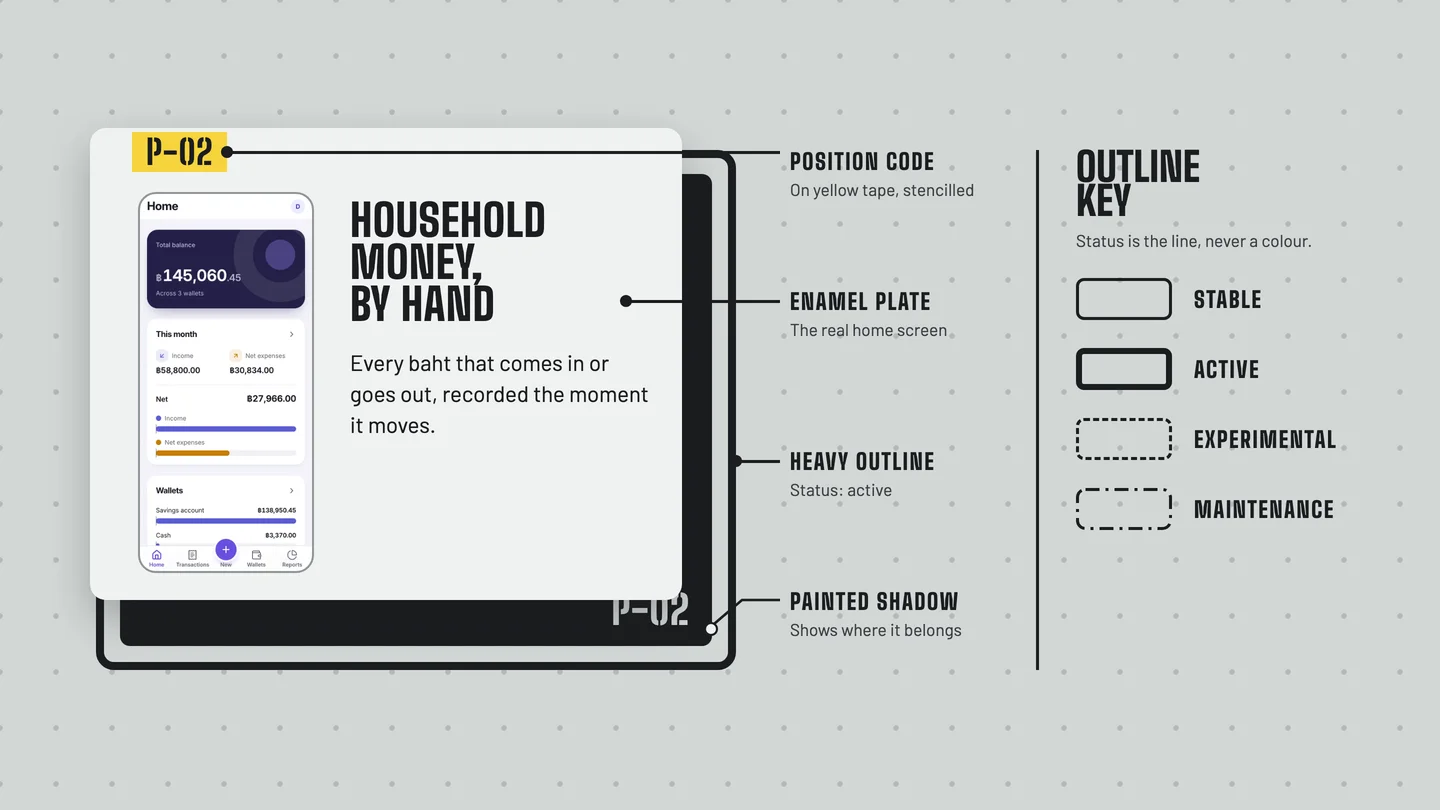
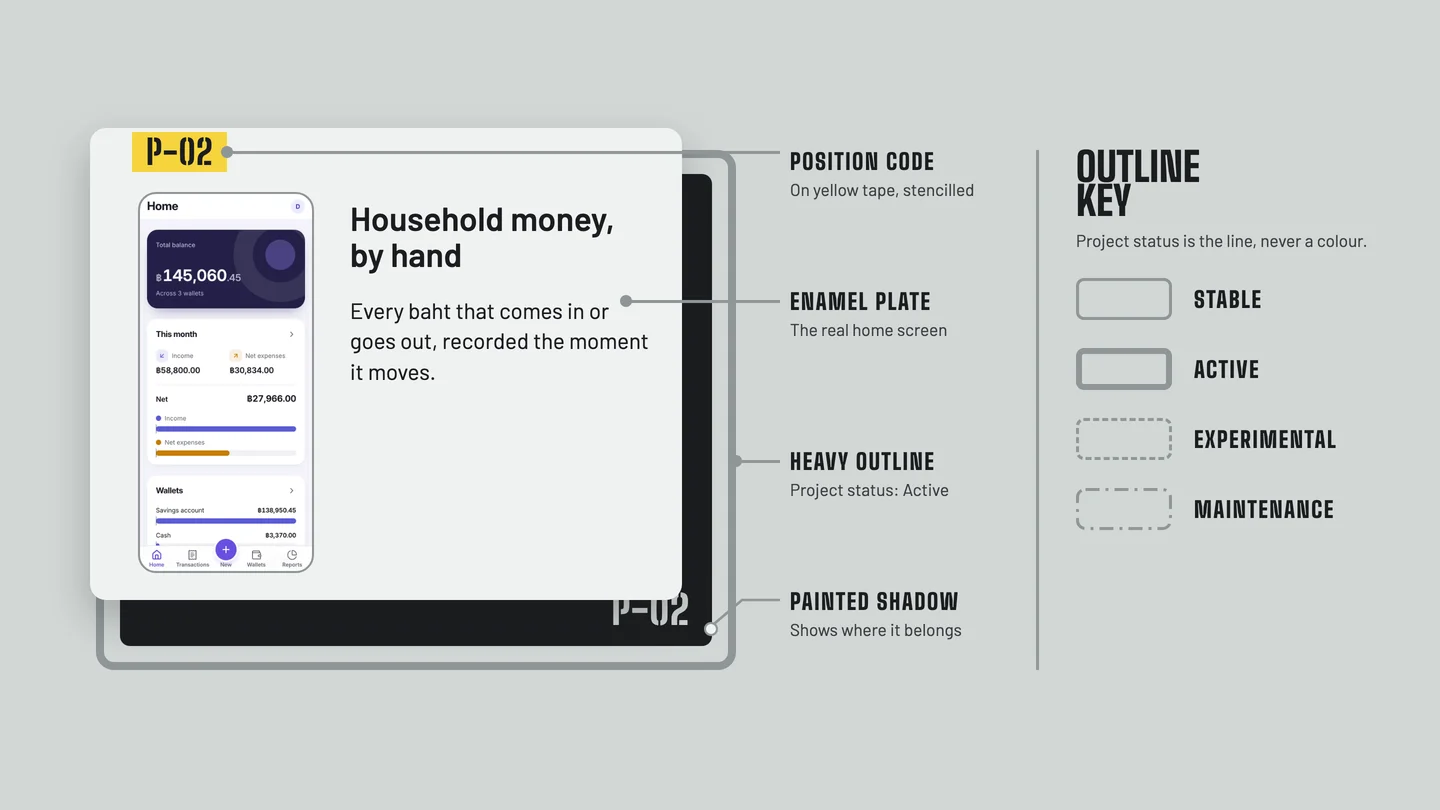
fix: address bookkeeping project review findings

diff --git a/GLOSSARY.md b/GLOSSARY.md
@@ -49,7 +49,7 @@ _Avoid_: legacy, archived
 ### Project dates
 
 **Start date**:
-The day work on a project began, shown as "Since …"; not the day it went live.
+The day work on a project began; not the day it went live.
 _Avoid_: launch date, release date, created date
 
 ### Board
